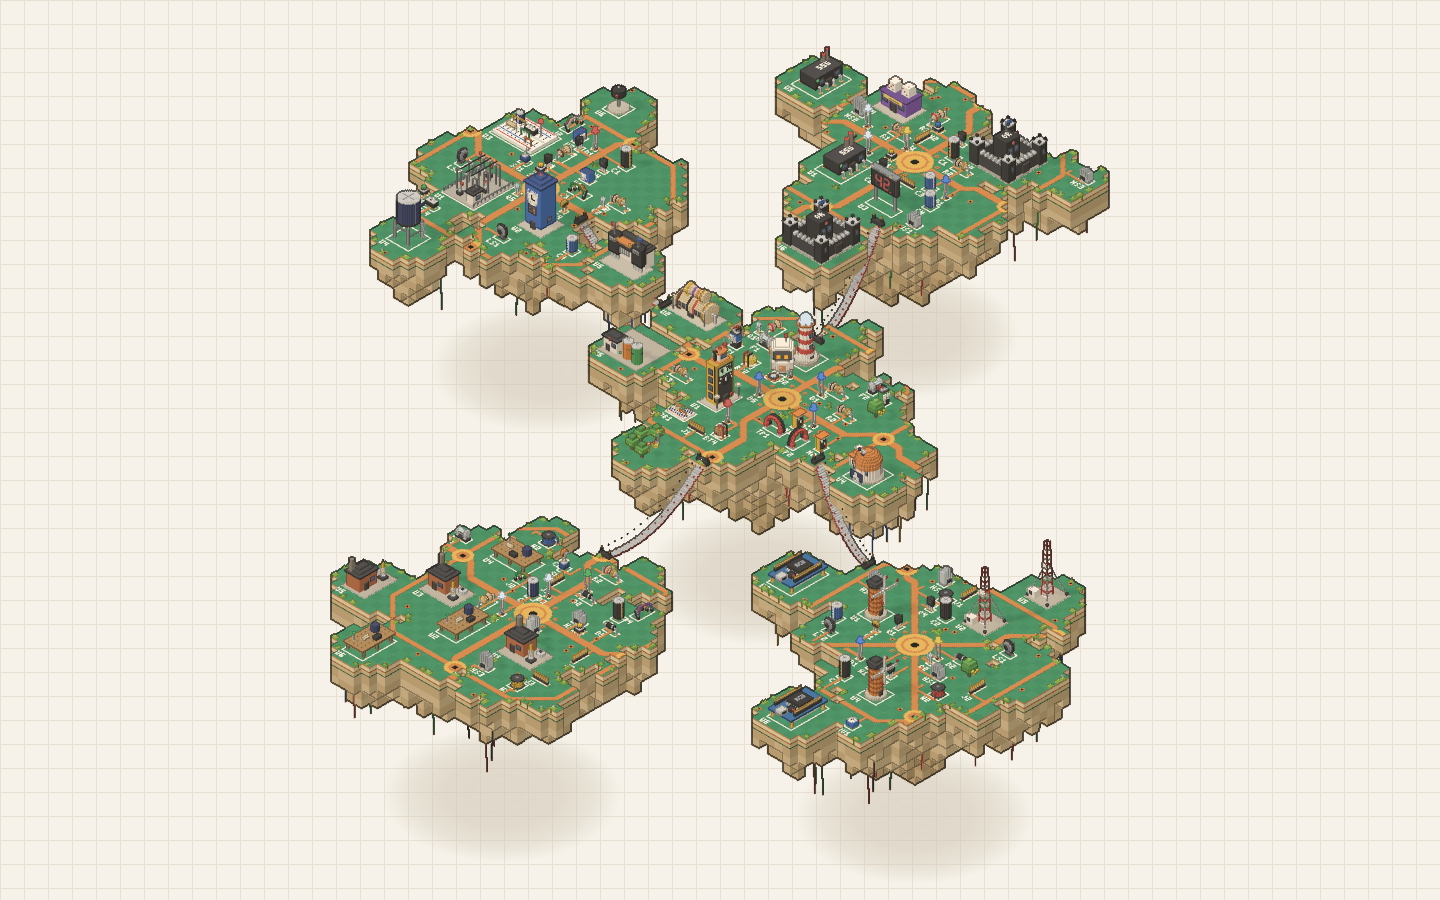
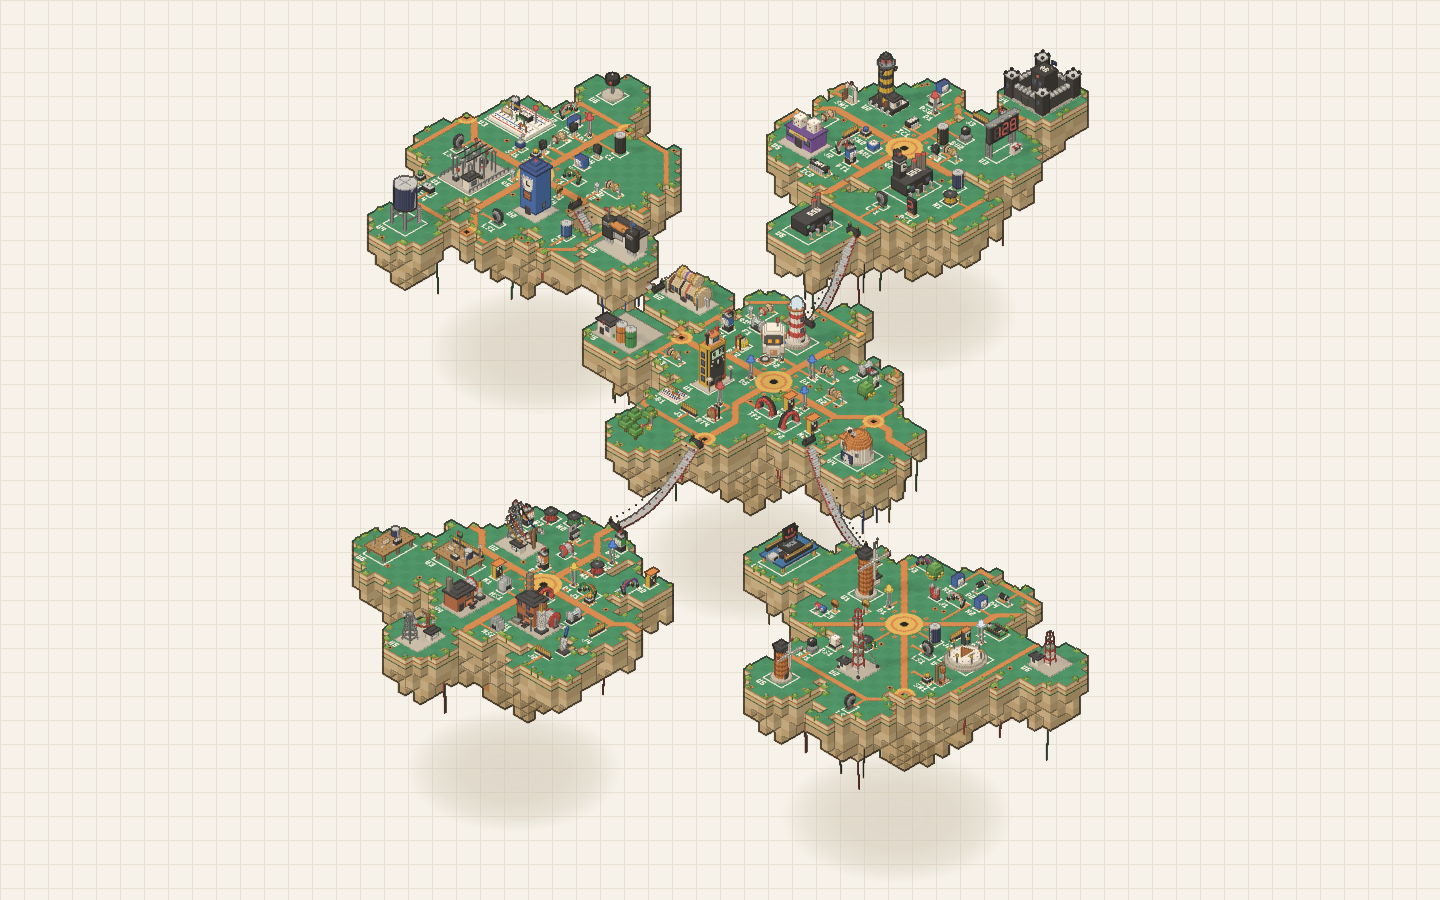
Add an isle gallery for close looks at pieces and landmarks, and document the catalog
playground/gallery.html lays chosen kinds side by side, every variant and
tier; shots --gallery shoots them by day and night. The README lists the
units, pieces and landmarks, and shows the new ones.

Changed region(s): [[0.2188, 0.0622, 0.7812, 0.8711], [0.3125, 0.9022, 0.375, 0.9333]]

diff --git a/packages/isle/playground/gallery.ts b/packages/isle/playground/gallery.ts
@@ -1,0 +1,125 @@
+/**
+ * The gallery: chosen pieces and landmarks side by side on one small board, drawn by the real renderer, for looking at
+ * their models (the screenshots script's --gallery). The board is made up here, not planned: nothing else is placed.
+ *
+ * Query parameters:
+ * - kinds: a comma list. `kind` shows every variant of a piece or every tier of a landmark, `kind@2` one variant,
+ *   `kind:1` one tier. `|` starts a new row.
+ * - time (day | dusk | night), look (notebook | classic), paper (grid | plain | clear), zoom.
+ */
+import { footOf, isLandmark, isPiece, tiersOf, variantsOf } from "../src/catalog";
+import { mountIsle, type IsleItem, type IslePlan, type LandCell, type Look, type Paper, type Story, type Trace } from "../src/index";
+import { PLAZA_R, disc, key } from "../src/plan";
+
+const q = new URLSearchParams(location.search);
+const look: Look = q.get("look") === "classic" ? "classic" : "notebook";
+const paper: Paper = q.get("paper") === "plain" ? "plain" : q.get("paper") === "clear" ? "clear" : "grid";
+const time = (() => {
+  const d = new Date();
+  const t = q.get("time") ?? "day";
+  d.setHours(t === "night" ? 23 : t === "dusk" ? 19 : 13, t === "dusk" ? 30 : 0, 0, 0);
+  return d;
+})();
+document.body.classList.toggle("night", q.get("time") === "night");
+document.body.classList.toggle("classic", look === "classic");
+
+type Entry = { kind: string; v: number; tier: number };
+
+/** The entries of one row, from its part of `kinds`. */
+function parseRow(s: string): Entry[] {
+  const out: Entry[] = [];
+  for (const raw of s.split(",").map((x) => x.trim()).filter(Boolean)) {
+    const [kind, sel] = raw.split(/[@:]/) as [string, string | undefined];
+    if (isLandmark(kind)) {
+      const n = tiersOf(kind);
+      const tiers = sel === undefined ? [...Array(n).keys()] : [Math.min(n - 1, Number(sel) || 0)];
+      for (const tier of tiers) out.push({ kind, v: 0, tier });
+    } else {
+      const n = isPiece(kind) ? variantsOf(kind) : 1;
+      const vs = sel === undefined ? [...Array(n).keys()] : [Number(sel) || 0];
+      for (const v of vs) out.push({ kind, v, tier: 0 });
+    }
+  }
+  return out;
+}
+
+// a row wraps after `cols` entries
+const cols = Math.max(1, Number(q.get("cols")) || 4);
+const rows = (q.get("kinds") ?? "iron-stand,solder-spool,regulator")
+  .split("|")
+  .map(parseRow)
+  .flatMap((row) => Array.from({ length: Math.ceil(row.length / cols) }, (_, i) => row.slice(i * cols, (i + 1) * cols)));
+const all = rows.flat();
+const maxFoot = Math.max(1, ...all.map((e) => footOf(e.kind)));
+// items run along the screen's horizontal (+x, -z), rows down the screen (+x, +z)
+const stepOf = (row: Entry[]) => {
+  const f = Math.max(1, ...row.map((e) => footOf(e.kind)));
+  return Math.ceil((2 * f + (row.some((e) => isLandmark(e.kind)) ? 3.5 : 1.6)) / Math.SQRT2);
+};
+const rowStep = Math.ceil((2 * maxFoot + 4) / Math.SQRT2);
+
+const start: Story = { at: -1, type: "start", title: "", ref: "" };
+const items: IsleItem[] = [];
+const cells = new Map<number, LandCell>();
+const traces: Trace[] = [];
+const land = (x: number, z: number, r: number) => disc(x, z, r, (cx, cz) => cells.set(key(cx, cz), { x: cx, z: cz, at: -1 }));
+land(0, 0, PLAZA_R + 1.5);
+rows.forEach((row, r) => {
+  const ox = r * rowStep;
+  const oz = r * rowStep;
+  const step = stepOf(row);
+  let px = 0;
+  let pz = 0;
+  row.forEach((e, i) => {
+    const x = ox + (i + 1) * step;
+    const z = oz - (i + 1) * step;
+    const landmark = isLandmark(e.kind);
+    const foot = footOf(e.kind);
+    items.push({
+      id: items.length,
+      island: 0,
+      kind: e.kind,
+      x,
+      z,
+      rot: 0,
+      v: e.v,
+      foot,
+      landmark,
+      tiers: Array(e.tier + 1).fill(-1),
+      story: Array(e.tier + 1).fill(start),
+    });
+    land(x, z, foot + 1.6);
+    // a strip of board back to the one before, so the row is one board
+    for (let k = 0; k <= 8; k++) land(px + ((x - px) * k) / 8, pz + ((z - pz) * k) / 8, Math.max(1.5, foot));
+    px = x;
+    pz = z;
+  });
+  // a copper trace in front of the row
+  const off = Math.ceil(maxFoot + 1);
+  traces.push({ ring: 0, pts: [[ox + off, oz + off - step], [ox + row.length * step + off, oz - row.length * step + off]] });
+});
+
+const plan: IslePlan = {
+  seed: 1,
+  events: [],
+  islands: [{ id: 0, unit: "gallery", at: -1, x: 0, y: 0, z: 0, link: -1, cells: [...cells.values()], traces, plazas: [{ x: 0, z: 0, r: PLAZA_R, ring: -1 }] }],
+  items,
+};
+
+document.getElementById("names")!.textContent = rows
+  .map((row) => row.map((e) => (isLandmark(e.kind) ? `${e.kind} tier ${e.tier}` : variantsOf(e.kind) > 1 ? `${e.kind} v${e.v}` : e.kind)).join(", "))
+  .join(" / ");
+
+declare global {
+  interface Window {
+    __gallery?: { ready: boolean };
+  }
+}
+
+// framed on the parts alone (no keel, shadow or robot) unless frame=isle
+const frame = q.get("frame") === "isle" ? "isle" : "parts";
+const view = await mountIsle(document.getElementById("isle")!, plan, { interactive: true, quality: "high", look, paper, muted: true, reducedMotion: true, time, frame });
+const zoom = Number(q.get("zoom"));
+if (zoom) view.setZoom(zoom);
+window.__gallery = { ready: false };
+requestAnimationFrame(() => requestAnimationFrame(() => window.__gallery && (window.__gallery.ready = true)));

diff --git a/packages/isle/playground/gallery.html b/packages/isle/playground/gallery.html
@@ -1,0 +1,48 @@
+<!doctype html>
+<html lang="en">
+  <head>
+    <meta charset="utf-8" />
+    <meta name="viewport" content="width=device-width, initial-scale=1" />
+    <title>Isle gallery</title>
+    <style>
+      :root {
+        --paper: #f6f2e9;
+        --ink: #24221e;
+        --grid: #e7e0d3;
+      }
+      body.night {
+        --paper: #1b1a18;
+        --ink: #ece6da;
+        --grid: #262522;
+      }
+      html,
+      body {
+        margin: 0;
+        height: 100%;
+        color: var(--ink);
+        background: var(--paper);
+        font: 14px/1.4 "Literata", Georgia, "Times New Roman", serif;
+      }
+      body.classic {
+        background: #e4f3f4;
+      }
+      #isle {
+        position: fixed;
+        inset: 0;
+      }
+      #names {
+        position: fixed;
+        top: 10px;
+        left: 12px;
+        right: 12px;
+        margin: 0;
+        pointer-events: none;
+      }
+    </style>
+  </head>
+  <body>
+    <div id="isle"></div>
+    <p id="names"></p>
+    <script type="module" src="./gallery.ts"></script>
+  </body>
+</html>

diff --git a/packages/isle/README.md b/packages/isle/README.md
@@ -10,6 +10,36 @@ with every module, one island per unit, linked by ribbon cable bridges (the Pitk
 
 ![The notebook isle at 12 lessons](screenshots/isle-notebook-12-lessons-day.png)
 
+## Units, pieces and landmarks
+
+`src/catalog.ts` lists what the isle can hold. Content names these ids: a lesson's `unlocks.isle` a piece, a module's
+`landmark.id` a landmark. `apps/web/src/content/isle-pieces.ts` mirrors the pieces (its test fails if the two drift).
+
+- **Units**, one island each, by the id of their folder in `content/units`: `start-here`, `basics`, `switching`,
+  `permanent`, `chips`, `beyond`. `content/course.yaml` still lists Unit 3 among its upcoming units as
+  `making-it-permanent`; the planner reads that id as `permanent` (`unitOf`), so either builds the same island.
+- **Pieces**, one per lesson. Units 3 to 5 add `iron-stand`, `solder-spool`, `regulator` (Making it permanent),
+  `chip-block`, `reed-gate`, `seven-seg`, `logic-chip`, `dice-block` (Chips), `coil-bolt`, `magnet`, `antenna` and
+  `mcu-board` (Beyond), drawn in `src/render/pieces.ts`.
+- **Landmarks**, one per module, each rising through tiers (`src/render/landmarks.ts`):
+
+| Unit | Landmarks in module order (tiers) |
+|---|---|
+| Start here | spark-gap (2), pump-house (2), meter-tower (3) |
+| Basics | resistor-hall (2), lighthouse (3), observatory (2), power-station (3), lemon-grove (2) |
+| Switching | switchyard, relay-clocktower, breadboard-plaza, capacitor-water-tower, transistor-gatehouse, siren-tower (2 each) |
+| Making it permanent | solder-forge (3), cable-pylon (2), perfboard-pier (2) |
+| Chips | timer-factory (2), alarm-lighthouse (3), counter-billboard (2), logic-castle (3), dice-arcade (2) |
+| Beyond | coil-windmill (2), radio-mast (3), microcontroller-hq (2), led-sundial (2) |
+
+A new kind never changes an isle that does not name it. The fallback deck (a lesson without a known piece) and the
+fallback landmark rotation (a module without a known landmark) are frozen, and a test pins an isle built from older
+kinds to the fingerprint it had before Units 3 to 5 were drawn.
+
+![The pieces of Units 3 to 5](screenshots/gallery-later-pieces-day.jpg)
+
+![Some of their landmarks at their top tiers, by night](screenshots/gallery-later-landmarks-night.jpg)
+
 ## Looks
 
 `opts.look` picks how the isle is drawn. The default is `"notebook"`.
@@ -61,6 +91,7 @@ mountIsle(el, plan, {
   paper?: "grid" | "plain" | "clear",     // notebook only, default "grid"
   time?: Date, at?: number, messages?: IsleMessages, audio?: AudioContext,
   autoRotate?: number, inset?: { bottom?: number }, onPick?: (label) => void,
+  frame?: "isle" | "parts",               // what the camera fits: the whole isle (default) or only its parts
 });
 ```
 
@@ -102,12 +133,15 @@ pnpm --filter @ohmland/isle dev      # the playground: sizes, looks, paper, time
 pnpm --filter @ohmland/isle test     # the plan: determinism, golden hash, no overlaps, no three.js in the planner
 pnpm --filter @ohmland/isle shots    # screenshots: 1, 12, 40, 120 lessons, notebook day and night and classic day,
                                      # desktop and phone, plus a contact sheet (screenshots/out, not committed)
+pnpm --filter @ohmland/isle shots --gallery all   # every piece variant and landmark tier up close, day and night
 node scripts/perf.mjs [--look notebook,classic] [--turn 6] [--uncapped] [--swiftshader] [--size 390x844 --dpr 3]
 ```
 
 Playground query parameters: `l`, `m`, `u`, `seed`, `time` (auto, day, dusk, night), `q` (high, low), `look`,
 `paper`, `rm=1` (reduced motion), `muted=0`, `bare=1`, `zoom`, `only` (one unit's island), `turn` (a turning teaser).
-`/robot.html` shows the robot alone (`?night=1`, `?look=classic`).
+`/robot.html` shows the robot alone (`?night=1`, `?look=classic`). `/gallery.html?kinds=` lays chosen kinds side by
+side on a small board, framed on the parts: `kind` shows every variant or tier, `kind@1` one variant, `kind:2` one
+tier, `|` starts a row (with `time`, `look`, `paper`, `zoom`, `cols`, and `frame=isle` for the whole board).
 
 ## Screenshots
 
